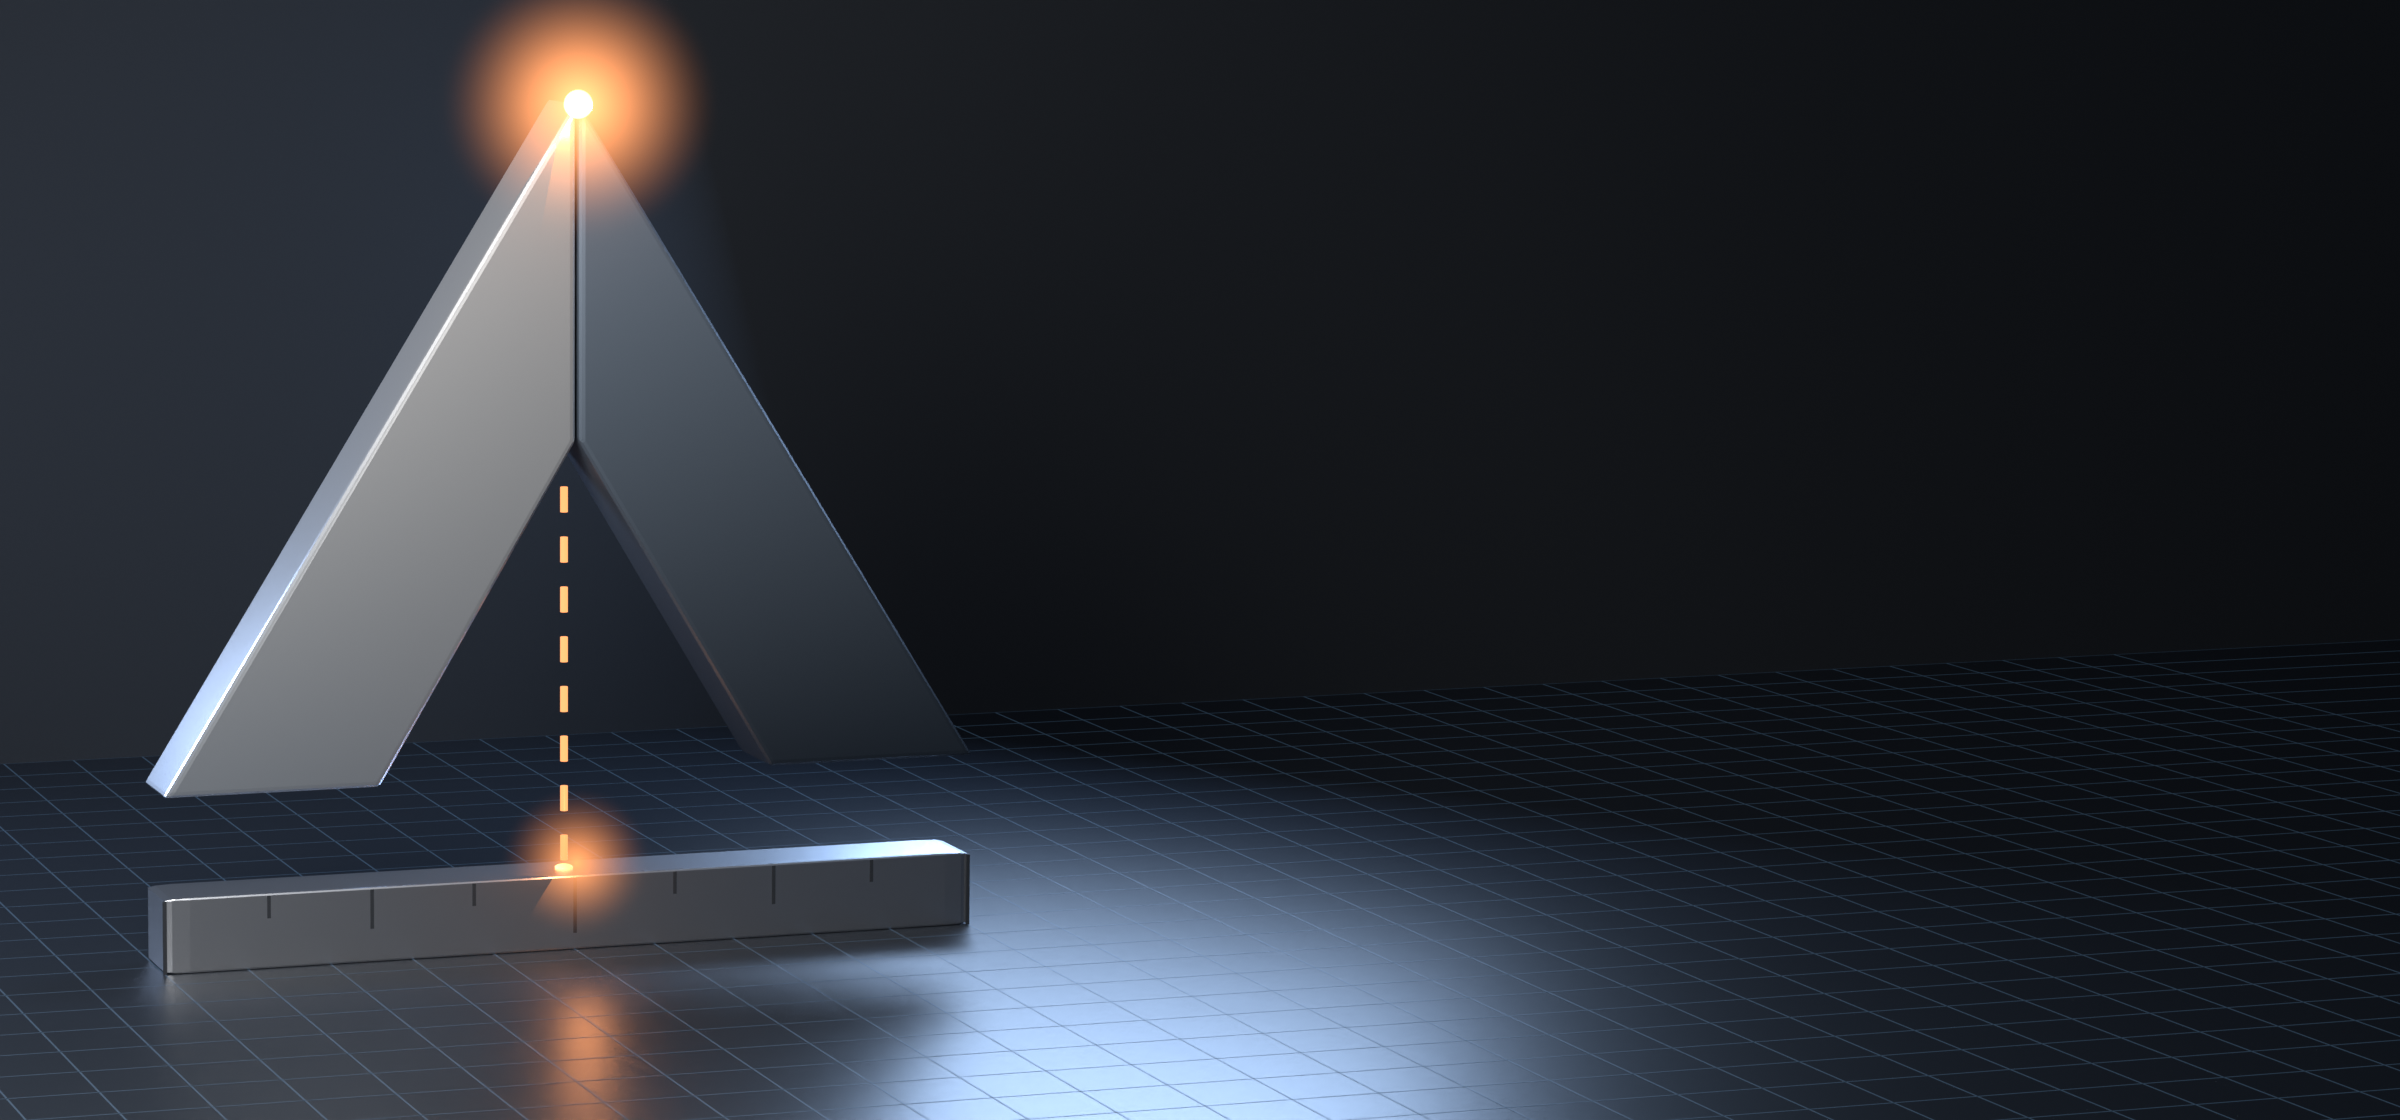
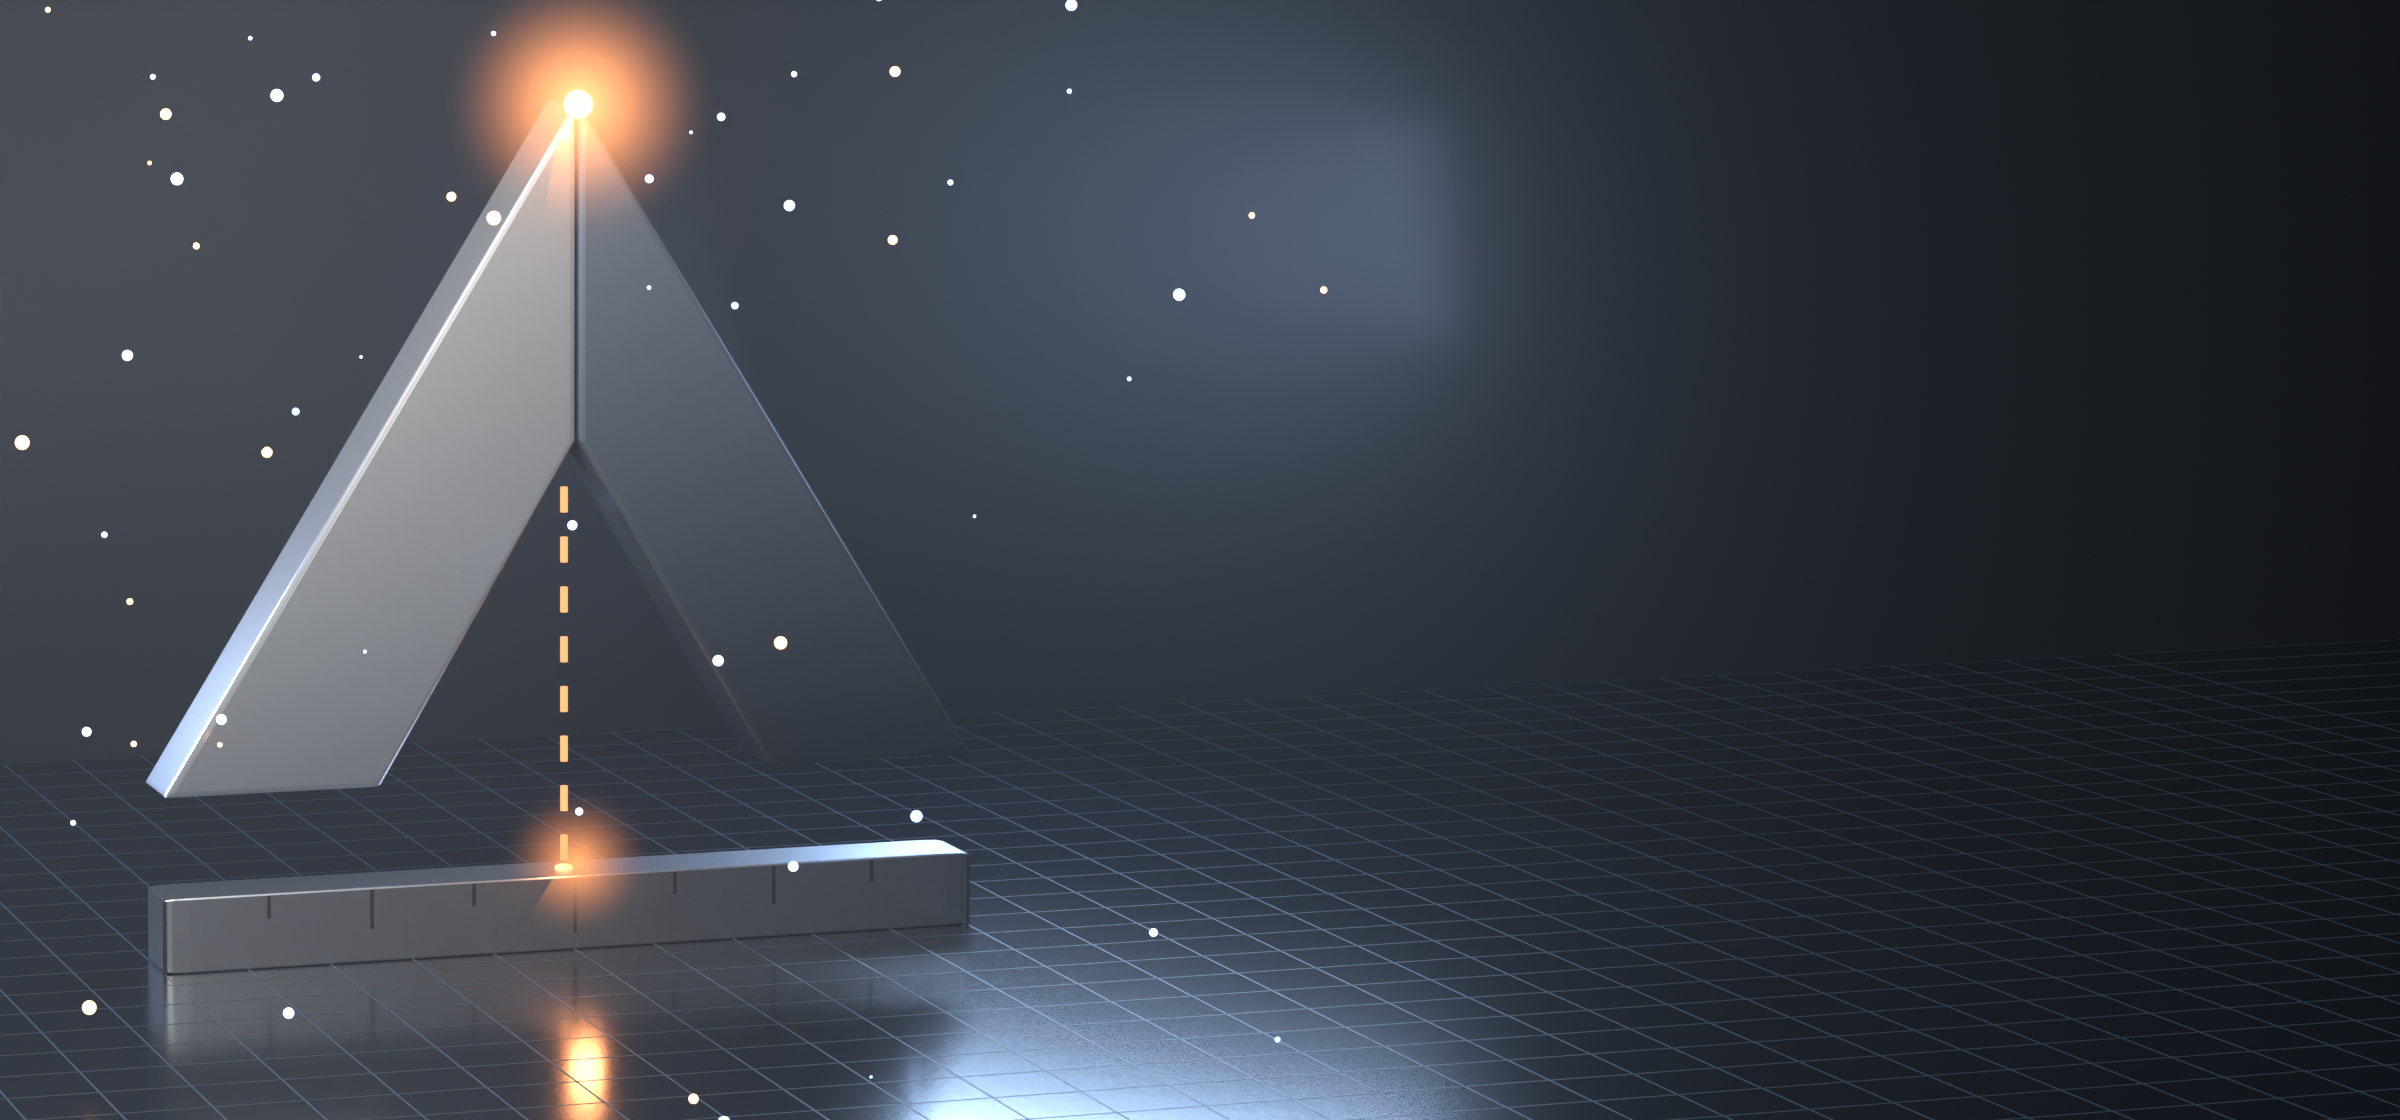
Use upgraded 3D hero render on the home screen with wordmark overlay
Claude-Session: https://claude.ai/code/session_018xdW4gapLD3SmTnUynycUG

diff --git a/apex-measure-pro-saas/css/brand.css b/apex-measure-pro-saas/css/brand.css
@@ -183,10 +183,13 @@ body { font-family: var(--font-brand); -webkit-font-smoothing: antialiased; -moz
 body[data-route="home"] .view::before {
   content: "";
   display: block;
-  aspect-ratio: 1600 / 760;
+  aspect-ratio: 2400 / 1120;
   margin-bottom: 20px;
   border-radius: var(--radius-lg);
-  background: var(--brand-night) url("../brand/hero.webp") center / cover no-repeat;
+  /* 3D render (sculpture on the left, right 40% left clear) with the wordmark laid over it in the clear space */
+  background:
+    url("../brand/wordmark-on-dark.svg") right 5% center / 40% auto no-repeat,
+    var(--brand-night) url("../brand/renders/hero-3d-1800.webp") center / cover no-repeat;
   box-shadow: var(--shadow-lg);
 }
 .empty { padding: 8px 0 24px; text-align: center; }

diff --git a/apex-measure-pro-saas/sw.js b/apex-measure-pro-saas/sw.js
@@ -49,6 +49,8 @@ const PRECACHE = [
 const BRAND_ASSETS = [
   "./fonts/archivo-latin-var.woff2",
   "./brand/hero.webp",
+  "./brand/renders/hero-3d-1800.webp",
+  "./brand/wordmark-on-dark.svg",
   "./brand/mark-on-dark.svg"
 ];
 
